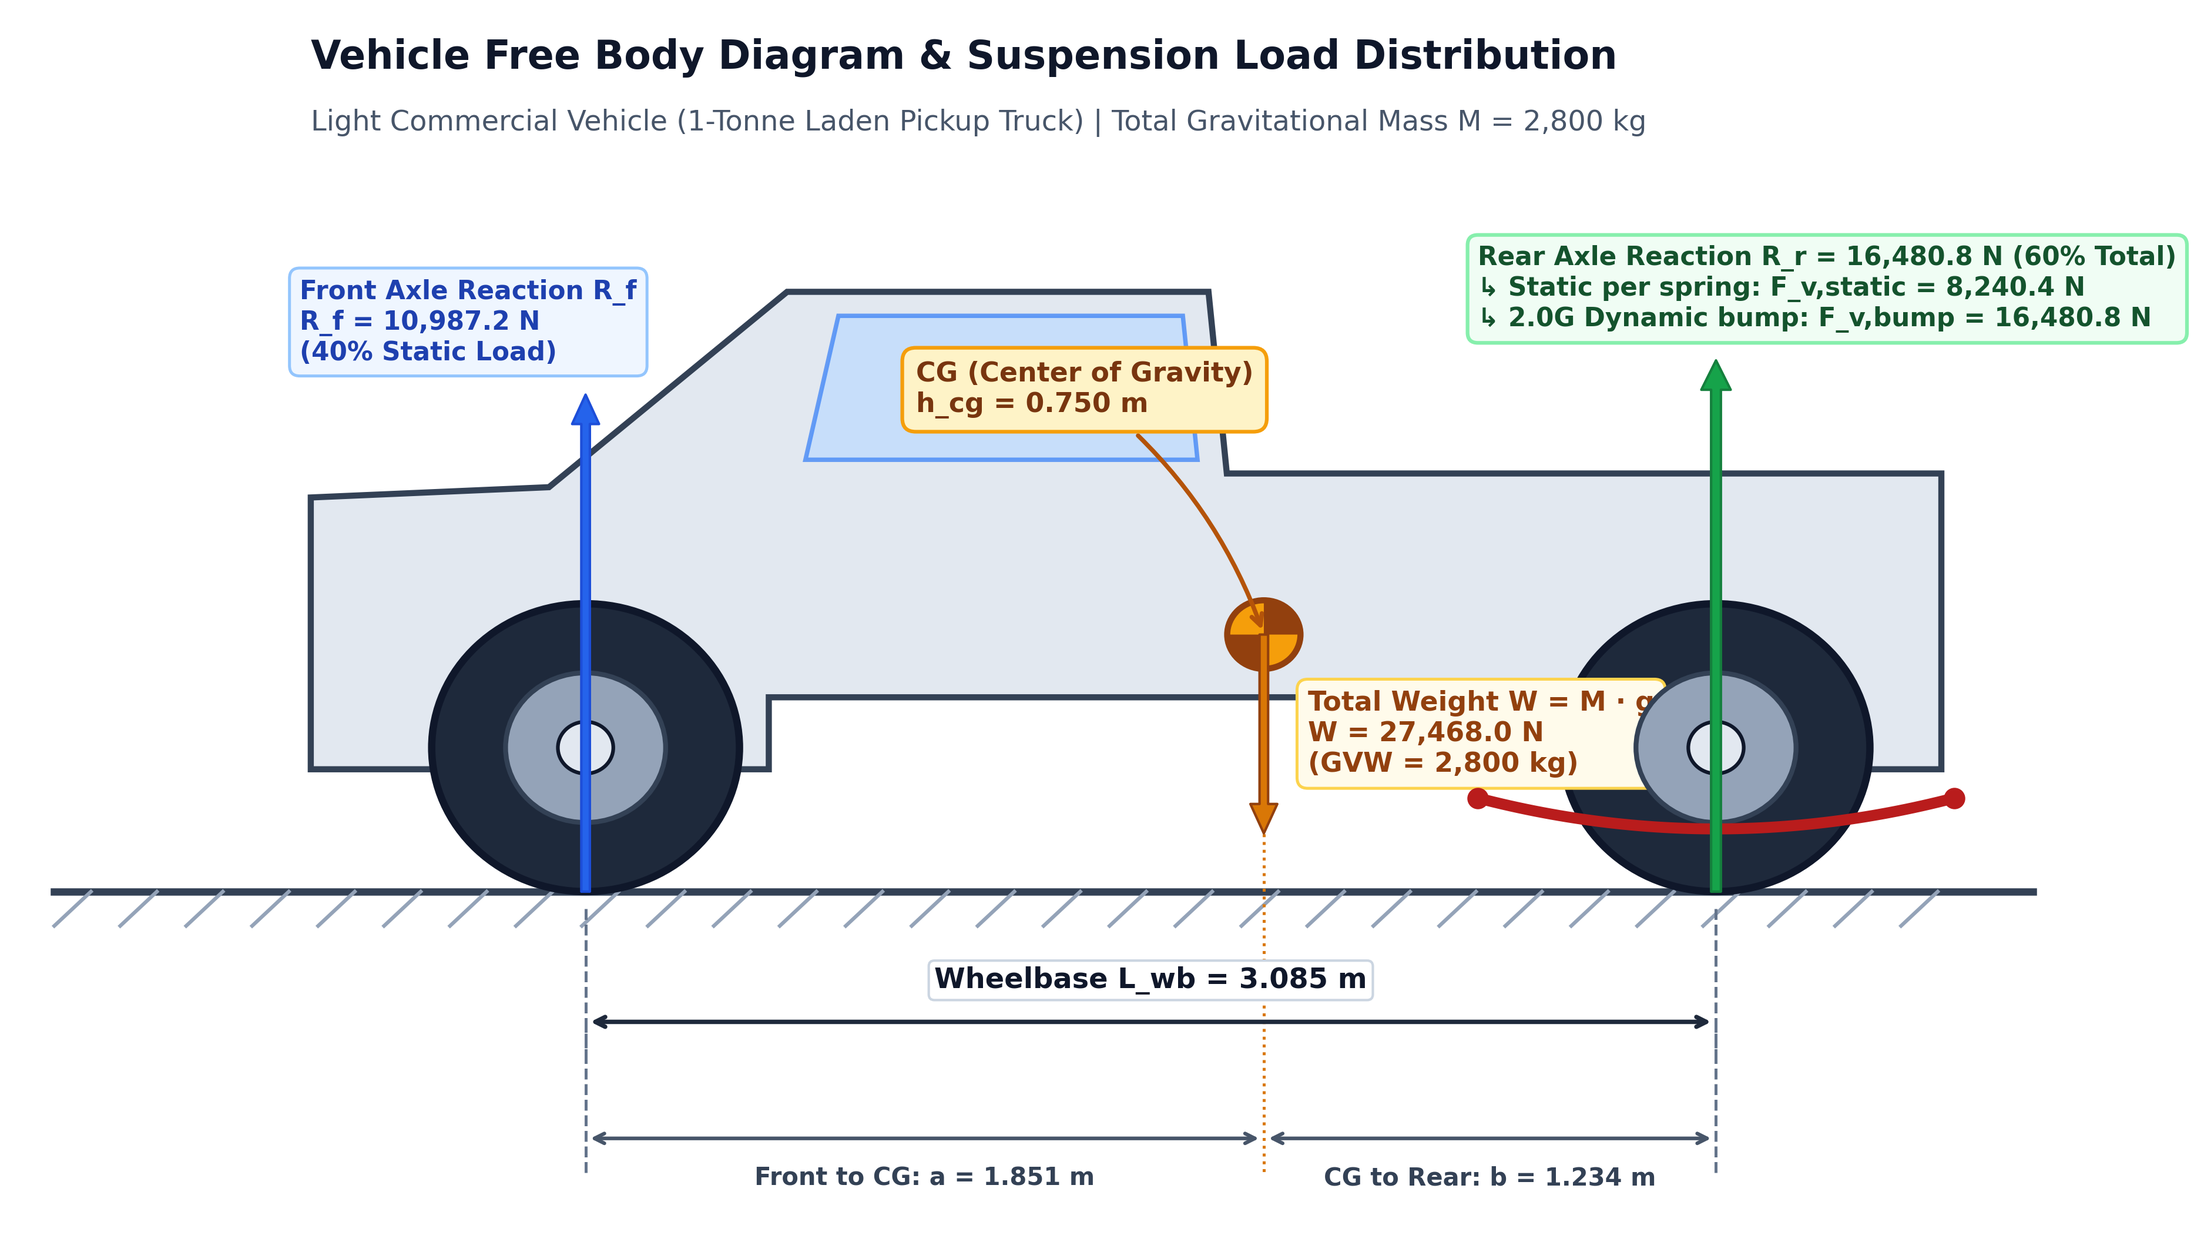
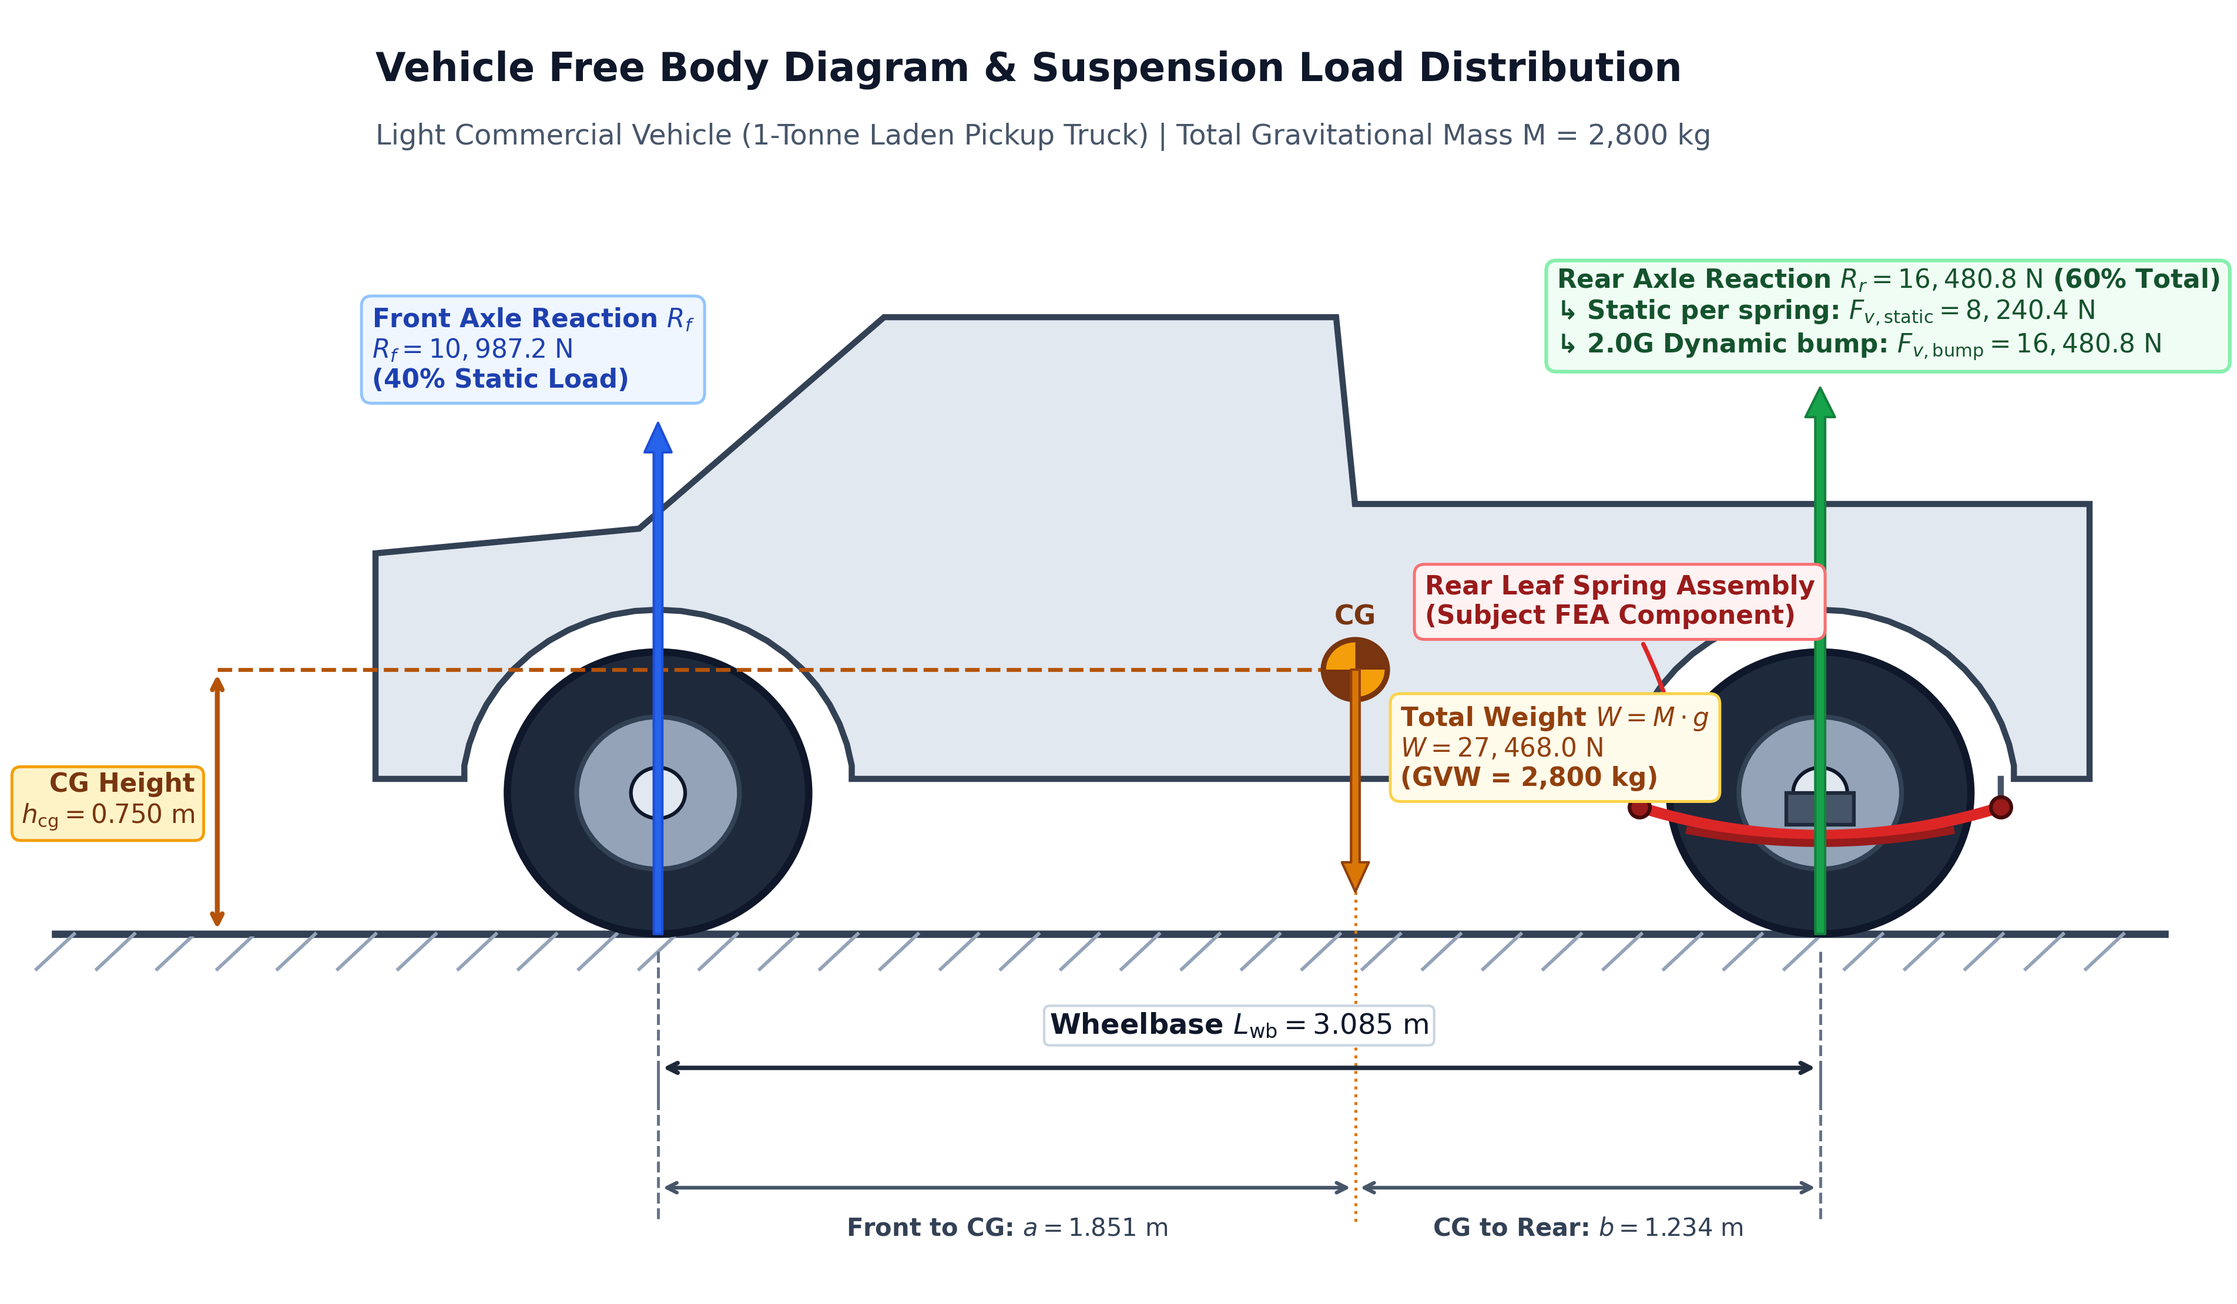
Update Figure 1 vehicle dynamics FBD: flat underbody, remove glass polygon, front-projected CG height scale, and realistic leaf spring mounting

diff --git a/scripts/plot_vehicle_dynamics.py b/scripts/plot_vehicle_dynamics.py
@@ -18,129 +18,215 @@ def generate_vehicle_fbd():
     os.makedirs(results_dir, exist_ok=True)
     out_path = os.path.join(results_dir, 'vehicle_dynamics_fbd.png')
 
-    fig, ax = plt.subplots(figsize=(13, 7.2), dpi=300)
+    fig, ax = plt.subplots(figsize=(13.5, 7.5), dpi=300)
     ax.set_facecolor('#f8fafc')
     fig.patch.set_facecolor('#ffffff')
 
-    # Ground line
-    ax.plot([-0.6, 4.8], [0, 0], color='#334155', lw=3, zorder=2)
-    for x in np.arange(-0.5, 4.7, 0.18):
-        ax.plot([x, x - 0.10], [0, -0.10], color='#94a3b8', lw=1.5)
-
-    # Dimensions
+    # Dimensions & Key Coordinates
     x_front = 0.85
-    x_rear = 3.935  # wheelbase = 3.085 m
-    r_wheel = 0.42
+    x_rear = 3.935          # Wheelbase L_wb = 3.085 m
+    r_wheel = 0.40          # Wheel rolling radius (m)
+    y_belly = 0.44          # Flat vehicle underbody / rocker sill line (m)
+    x_cg = x_front + 1.851  # CG longitudinal position: 2.701 m (a = 1.851 m, b = 1.234 m)
+    y_cg = 0.750            # CG height above ground h_cg = 0.750 m
 
-    # Draw Wheels
-    wheel_f = plt.Circle((x_front, r_wheel), r_wheel, facecolor='#1e293b', edgecolor='#0f172a', lw=3, zorder=3)
-    rim_f = plt.Circle((x_front, r_wheel), r_wheel * 0.52, facecolor='#94a3b8', edgecolor='#334155', lw=2, zorder=4)
-    hub_f = plt.Circle((x_front, r_wheel), r_wheel * 0.18, facecolor='#e2e8f0', edgecolor='#0f172a', lw=1.5, zorder=5)
+    # Ground line & Hatching
+    ax.plot([-0.75, 4.85], [0, 0], color='#334155', lw=3, zorder=2)
+    for x in np.arange(-0.70, 4.80, 0.16):
+        ax.plot([x, x - 0.10], [0, -0.10], color='#94a3b8', lw=1.4)
 
-    wheel_r = plt.Circle((x_rear, r_wheel), r_wheel, facecolor='#1e293b', edgecolor='#0f172a', lw=3, zorder=3)
-    rim_r = plt.Circle((x_rear, r_wheel), r_wheel * 0.52, facecolor='#94a3b8', edgecolor='#334155', lw=2, zorder=4)
-    hub_r = plt.Circle((x_rear, r_wheel), r_wheel * 0.18, facecolor='#e2e8f0', edgecolor='#0f172a', lw=1.5, zorder=5)
+    # -------------------------------------------------------------------------
+    # 1. Wheels (Front & Rear)
+    # -------------------------------------------------------------------------
+    for xw in [x_front, x_rear]:
+        # Tire
+        wheel = plt.Circle((xw, r_wheel), r_wheel, facecolor='#1e293b', edgecolor='#0f172a', lw=3, zorder=3)
+        # Rim
+        rim = plt.Circle((xw, r_wheel), r_wheel * 0.54, facecolor='#94a3b8', edgecolor='#334155', lw=2, zorder=4)
+        # Wheel Hub
+        hub = plt.Circle((xw, r_wheel), r_wheel * 0.18, facecolor='#e2e8f0', edgecolor='#0f172a', lw=1.5, zorder=5)
+        ax.add_patch(wheel)
+        ax.add_patch(rim)
+        ax.add_patch(hub)
 
-    ax.add_patch(wheel_f)
-    ax.add_patch(rim_f)
-    ax.add_patch(hub_f)
-    ax.add_patch(wheel_r)
-    ax.add_patch(rim_r)
-    ax.add_patch(hub_r)
+    # -------------------------------------------------------------------------
+    # 2. Vehicle Body Outline (Pickup Truck Silhouette)
+    # Underbody is completely flat/level (ท้องรถเสมอราบไป)
+    # No window rectangle (ไม่มีสี่เหลี่ยมกระจก)
+    # Wheel arches provide realistic clearance over tires
+    # -------------------------------------------------------------------------
+    r_arch = 0.52
+    theta_front = np.linspace(np.pi - 0.15, 0.15, 25)
+    f_arch_x = (x_front + r_arch * np.cos(theta_front)).tolist()
+    f_arch_y = (r_wheel + r_arch * np.sin(theta_front)).tolist()
 
-    # Vehicle chassis/body outline
-    body_pts = [
-        [0.10, r_wheel * 0.85],
-        [0.10, 1.15],
-        [0.75, 1.18],
-        [1.40, 1.75],
-        [2.55, 1.75],
-        [2.60, 1.22],
-        [4.55, 1.22],
-        [4.55, r_wheel * 0.85],
-        [3.45, r_wheel * 0.85],
-        [3.45, r_wheel * 1.35],
-        [1.35, r_wheel * 1.35],
-        [1.35, r_wheel * 0.85],
-        [0.10, r_wheel * 0.85]
-    ]
+    theta_rear = np.linspace(np.pi - 0.15, 0.15, 25)
+    r_arch_x = (x_rear + r_arch * np.cos(theta_rear)).tolist()
+    r_arch_y = (r_wheel + r_arch * np.sin(theta_rear)).tolist()
+
+    body_pts = []
+    # Front bumper & lower grille
+    body_pts.append([0.10, y_belly])
+    body_pts.append([0.10, 1.08])
+    # Hood slope
+    body_pts.append([0.80, 1.15])
+    # Windshield A-pillar
+    body_pts.append([1.45, 1.75])
+    # Cab roof
+    body_pts.append([2.65, 1.75])
+    # Cab rear window drop to truck bed
+    body_pts.append([2.70, 1.22])
+    # Truck cargo bed upper rail
+    body_pts.append([4.65, 1.22])
+    # Tailgate / rear bumper drop
+    body_pts.append([4.65, y_belly])
+    # Rear overhang flat sill to rear wheel arch
+    body_pts.append([r_arch_x[-1], y_belly])
+    # Rear wheel arch cutout (reversed so it traces counter-clockwise / cleanly)
+    for px, py in zip(reversed(r_arch_x), reversed(r_arch_y)):
+        body_pts.append([px, py])
+    body_pts.append([r_arch_x[0], y_belly])
+    # Belly / Rocker sill line between front & rear wheels (Completely Flat & Level)
+    body_pts.append([f_arch_x[-1], y_belly])
+    # Front wheel arch cutout
+    for px, py in zip(reversed(f_arch_x), reversed(f_arch_y)):
+        body_pts.append([px, py])
+    body_pts.append([f_arch_x[0], y_belly])
+    # Front overhang flat sill to front bumper
+    body_pts.append([0.10, y_belly])
+
     body_poly = patches.Polygon(body_pts, closed=True, facecolor='#e2e8f0', edgecolor='#334155', lw=2.5, zorder=2)
     ax.add_patch(body_poly)
 
-    # Cabin glass
-    cabin_pts = [[1.45, 1.26], [1.54, 1.68], [2.48, 1.68], [2.52, 1.26]]
-    cabin_poly = patches.Polygon(cabin_pts, closed=True, facecolor='#bfdbfe', edgecolor='#3b82f6', alpha=0.75, lw=1.8, zorder=3)
-    ax.add_patch(cabin_poly)
+    # -------------------------------------------------------------------------
+    # 3. Leaf Spring Assembly (Suspension at Rear Axle, Outside the Body Frame)
+    # Mounted underneath the chassis frame / under the bed sill
+    # -------------------------------------------------------------------------
+    ls_span = 0.48
+    ls_x = np.linspace(x_rear - ls_span, x_rear + ls_span, 60)
+    # Master leaf arch (underslung/semi-elliptic camber)
+    ls_camber = 0.08
+    ls_y_master = (r_wheel - 0.04) + ls_camber * (((ls_x - x_rear) / ls_span)**2 - 1.0)
+    ax.plot(ls_x, ls_y_master, color='#dc2626', lw=4.5, zorder=6, label='Leaf Spring Assembly')
 
-    # Leaf Spring indication at rear axle
-    ls_x = np.linspace(x_rear - 0.65, x_rear + 0.65, 60)
-    ls_y = r_wheel * 0.65 - 0.09 * (1 - ((ls_x - x_rear) / 0.65)**2)
-    ax.plot(ls_x, ls_y, color='#b91c1c', lw=4.5, zorder=6, label='Leaf Spring Pack')
-    ax.scatter([x_rear - 0.65, x_rear + 0.65], [r_wheel * 0.65, r_wheel * 0.65], color='#b91c1c', s=60, zorder=7)
+    # Secondary graduated leaf
+    ls_x_sub = np.linspace(x_rear - ls_span * 0.72, x_rear + ls_span * 0.72, 40)
+    ls_y_sub = ls_y_master[10:50] - 0.022
+    ax.plot(ls_x_sub, ls_y_sub, color='#991b1b', lw=3.2, zorder=6)
 
-    # Center of Gravity (CG)
-    x_cg = x_front + 1.851
-    y_cg = 0.750
-    cg_circle = plt.Circle((x_cg, y_cg), 0.10, facecolor='#f59e0b', edgecolor='#92400e', lw=2.5, zorder=7)
+    # Spring Eyes (Front Fixed Eye & Rear Shackle Eye)
+    y_front_eye = ls_y_master[0]
+    y_rear_eye = ls_y_master[-1]
+    ax.scatter([x_rear - ls_span], [y_front_eye], color='#991b1b', edgecolor='#450a0a', s=70, lw=1.5, zorder=7)
+    ax.scatter([x_rear + ls_span], [y_rear_eye], color='#991b1b', edgecolor='#450a0a', s=70, lw=1.5, zorder=7)
+
+    # Chassis Hanger Brackets & Rear Shackle Link
+    # Front hanger bracket from chassis sill to front eye
+    ax.plot([x_rear - ls_span, x_rear - ls_span], [y_belly, y_front_eye], color='#475569', lw=2.5, zorder=5)
+    # Rear shackle link
+    ax.plot([x_rear + ls_span, x_rear + ls_span], [y_belly, y_rear_eye], color='#475569', lw=2.5, zorder=5)
+
+    # Axle Clamp / U-Bolt Saddle Block
+    axle_clamp = patches.Rectangle((x_rear - 0.09, r_wheel - 0.09), 0.18, 0.09,
+                                   facecolor='#475569', edgecolor='#1e293b', lw=1.5, zorder=7)
+    ax.add_patch(axle_clamp)
+
+    # Leaf Spring Annotation
+    ax.annotate('Rear Leaf Spring Assembly\n(Subject FEA Component)',
+                xy=(x_rear - 0.35, y_front_eye), xytext=(x_rear - 1.05, 0.88),
+                fontsize=10.5, fontweight='bold', color='#991b1b',
+                arrowprops=dict(arrowstyle='->', color='#dc2626', lw=1.8, connectionstyle='arc3,rad=-0.12'),
+                bbox=dict(boxstyle='round,pad=0.4', facecolor='#fef2f2', edgecolor='#f87171', lw=1.2), zorder=9)
+
+    # -------------------------------------------------------------------------
+    # 4. Center of Gravity (CG)
+    # No cluttered description box on CG
+    # Height scale projected with dashed line to vehicle front with vertical arrow
+    # -------------------------------------------------------------------------
+    # Clean CG Quadrant Symbol
+    r_cg = 0.085
+    cg_circle = plt.Circle((x_cg, y_cg), r_cg, facecolor='#f59e0b', edgecolor='#78350f', lw=2.2, zorder=7)
     ax.add_patch(cg_circle)
-    wedge1 = patches.Wedge((x_cg, y_cg), 0.10, 0, 90, facecolor='#92400e', zorder=8)
-    wedge2 = patches.Wedge((x_cg, y_cg), 0.10, 180, 270, facecolor='#92400e', zorder=8)
-    ax.add_patch(wedge1)
-    ax.add_patch(wedge2)
+    w1 = patches.Wedge((x_cg, y_cg), r_cg, 0, 90, facecolor='#78350f', zorder=8)
+    w2 = patches.Wedge((x_cg, y_cg), r_cg, 180, 270, facecolor='#78350f', zorder=8)
+    ax.add_patch(w1)
+    ax.add_patch(w2)
+    ax.text(x_cg, y_cg + 0.11, 'CG', ha='center', va='bottom', fontsize=11, fontweight='bold', color='#78350f', zorder=9)
 
-    # CG Label Box
-    ax.annotate('CG (Center of Gravity)\nh_cg = 0.750 m', xy=(x_cg, y_cg), xytext=(x_cg - 0.95, y_cg + 0.65),
-                fontsize=11, fontweight='bold', color='#78350f',
-                arrowprops=dict(arrowstyle='->', color='#b45309', lw=1.8, connectionstyle='arc3,rad=-0.15'),
-                bbox=dict(boxstyle='round,pad=0.5', facecolor='#fef3c7', edgecolor='#f59e0b', lw=1.5), zorder=9)
+    # Horizontal Dashed Projection Line to Front of Vehicle
+    x_proj_front = -0.32
+    ax.plot([x_proj_front, x_cg], [y_cg, y_cg], color='#b45309', lw=1.6, ls='--', zorder=6)
+    # Ground reference dashed line out front
+    ax.plot([x_proj_front - 0.15, x_proj_front + 0.12], [0, 0], color='#334155', lw=2, zorder=6)
 
-    # Force Vectors
-    # Weight vector at CG
-    ax.annotate('', xy=(x_cg, y_cg - 0.58), xytext=(x_cg, y_cg),
+    # Vertical Height Dimension Arrow at Front
+    ax.annotate('', xy=(x_proj_front, y_cg), xytext=(x_proj_front, 0),
+                arrowprops=dict(arrowstyle='<->', color='#b45309', lw=2.0), zorder=8)
+    ax.text(x_proj_front - 0.06, y_cg / 2, 'CG Height\n$h_{\\mathrm{cg}} = 0.750\\text{ m}$',
+            ha='right', va='center', fontsize=10.5, fontweight='bold', color='#78350f',
+            bbox=dict(boxstyle='round,pad=0.35', facecolor='#fef3c7', edgecolor='#f59e0b', lw=1.2), zorder=9)
+
+    # -------------------------------------------------------------------------
+    # 5. Vehicle Forces & Reaction Vectors
+    # -------------------------------------------------------------------------
+    # Total Weight Vector W at CG
+    ax.annotate('', xy=(x_cg, 0.12), xytext=(x_cg, y_cg),
                 arrowprops=dict(facecolor='#d97706', edgecolor='#92400e', width=3.5, headwidth=11), zorder=8)
-    ax.text(x_cg + 0.12, y_cg - 0.40, 'Total Weight W = M · g\nW = 27,468.0 N\n(GVW = 2,800 kg)', 
-            fontsize=11, fontweight='bold', color='#92400e',
-            bbox=dict(boxstyle='round,pad=0.4', facecolor='#fffbeb', edgecolor='#fcd34d', lw=1.2))
+    ax.text(x_cg + 0.12, 0.42, 'Total Weight $W = M \\cdot g$\n$W = 27,468.0\\text{ N}$\n(GVW = 2,800 kg)',
+            fontsize=10.5, fontweight='bold', color='#92400e',
+            bbox=dict(boxstyle='round,pad=0.4', facecolor='#fffbeb', edgecolor='#fcd34d', lw=1.2), zorder=9)
 
-    # Front axle reaction
+    # Front Axle Reaction R_f
     ax.annotate('', xy=(x_front, 1.45), xytext=(x_front, 0),
                 arrowprops=dict(facecolor='#2563eb', edgecolor='#1d4ed8', width=3.5, headwidth=11), zorder=8)
-    ax.text(x_front - 0.78, 1.55, 'Front Axle Reaction R_f\nR_f = 10,987.2 N\n(40% Static Load)', 
+    ax.text(x_front - 0.76, 1.55, 'Front Axle Reaction $R_f$\n$R_f = 10,987.2\\text{ N}$\n(40% Static Load)',
             fontsize=10.5, fontweight='bold', color='#1e40af',
-            bbox=dict(boxstyle='round,pad=0.4', facecolor='#eff6ff', edgecolor='#93c5fd', lw=1.2))
+            bbox=dict(boxstyle='round,pad=0.4', facecolor='#eff6ff', edgecolor='#93c5fd', lw=1.2), zorder=9)
 
-    # Rear axle reaction
+    # Rear Axle Reaction R_r
     ax.annotate('', xy=(x_rear, 1.55), xytext=(x_rear, 0),
                 arrowprops=dict(facecolor='#16a34a', edgecolor='#15803d', width=4, headwidth=12), zorder=8)
-    ax.text(x_rear - 0.65, 1.65, 'Rear Axle Reaction R_r = 16,480.8 N (60% Total)\n↳ Static per spring: F_v,static = 8,240.4 N\n↳ 2.0G Dynamic bump: F_v,bump = 16,480.8 N', 
+    ax.text(x_rear - 0.70, 1.65,
+            'Rear Axle Reaction $R_r = 16,480.8\\text{ N}$ (60% Total)\n'
+            '↳ Static per spring: $F_{v,\\mathrm{static}} = 8,240.4\\text{ N}$\n'
+            '↳ 2.0G Dynamic bump: $F_{v,\\mathrm{bump}} = 16,480.8\\text{ N}$',
             fontsize=10.5, fontweight='bold', color='#14532d',
-            bbox=dict(boxstyle='round,pad=0.4', facecolor='#f0fdf4', edgecolor='#86efac', lw=1.5))
+            bbox=dict(boxstyle='round,pad=0.4', facecolor='#f0fdf4', edgecolor='#86efac', lw=1.5), zorder=9)
 
-    # Dimension Lines
+    # -------------------------------------------------------------------------
+    # 6. Horizontal Dimension Lines (Wheelbase L_wb, a, b)
+    # -------------------------------------------------------------------------
     y_dim1 = -0.38
     ax.annotate('', xy=(x_rear, y_dim1), xytext=(x_front, y_dim1),
                 arrowprops=dict(arrowstyle='<->', color='#1e293b', lw=1.8))
     ax.plot([x_front, x_front], [-0.05, y_dim1 - 0.10], color='#64748b', lw=1.2, ls='--')
     ax.plot([x_rear, x_rear], [-0.05, y_dim1 - 0.10], color='#64748b', lw=1.2, ls='--')
-    ax.text((x_front + x_rear) / 2, y_dim1 + 0.08, 'Wheelbase L_wb = 3.085 m', ha='center', va='bottom', fontsize=11.5, fontweight='bold', color='#0f172a',
+    ax.text((x_front + x_rear) / 2, y_dim1 + 0.08, 'Wheelbase $L_{\\mathrm{wb}} = 3.085\\text{ m}$',
+            ha='center', va='bottom', fontsize=11.5, fontweight='bold', color='#0f172a',
             bbox=dict(boxstyle='round,pad=0.2', facecolor='#ffffff', edgecolor='#cbd5e1', lw=1))
 
     # Sub-dimensions a and b
     y_dim2 = -0.72
     ax.annotate('', xy=(x_cg, y_dim2), xytext=(x_front, y_dim2), arrowprops=dict(arrowstyle='<->', color='#475569', lw=1.5))
     ax.annotate('', xy=(x_rear, y_dim2), xytext=(x_cg, y_dim2), arrowprops=dict(arrowstyle='<->', color='#475569', lw=1.5))
-    ax.plot([x_cg, x_cg], [y_cg - 0.15, y_dim2 - 0.10], color='#d97706', lw=1.2, ls=':')
+    ax.plot([x_cg, x_cg], [0.12, y_dim2 - 0.10], color='#d97706', lw=1.2, ls=':')
     ax.plot([x_front, x_front], [y_dim1, y_dim2 - 0.10], color='#64748b', lw=1.2, ls='--')
     ax.plot([x_rear, x_rear], [y_dim1, y_dim2 - 0.10], color='#64748b', lw=1.2, ls='--')
-    ax.text((x_front + x_cg) / 2, y_dim2 - 0.08, 'Front to CG: a = 1.851 m', ha='center', va='top', fontsize=10, fontweight='bold', color='#334155')
-    ax.text((x_cg + x_rear) / 2, y_dim2 - 0.08, 'CG to Rear: b = 1.234 m', ha='center', va='top', fontsize=10, fontweight='bold', color='#334155')
+    ax.text((x_front + x_cg) / 2, y_dim2 - 0.08, 'Front to CG: $a = 1.851\\text{ m}$',
+            ha='center', va='top', fontsize=10, fontweight='bold', color='#334155')
+    ax.text((x_cg + x_rear) / 2, y_dim2 - 0.08, 'CG to Rear: $b = 1.234\\text{ m}$',
+            ha='center', va='top', fontsize=10, fontweight='bold', color='#334155')
 
-    # Header
-    ax.text(0.10, 2.40, 'Vehicle Free Body Diagram & Suspension Load Distribution', fontsize=16, fontweight='bold', color='#0f172a')
-    ax.text(0.10, 2.22, 'Light Commercial Vehicle (1-Tonne Laden Pickup Truck) | Total Gravitational Mass M = 2,800 kg', fontsize=11.5, color='#475569')
+    # -------------------------------------------------------------------------
+    # 7. Figure Header & Title
+    # -------------------------------------------------------------------------
+    ax.text(0.10, 2.42, 'Vehicle Free Body Diagram & Suspension Load Distribution',
+            fontsize=16, fontweight='bold', color='#0f172a')
+    ax.text(0.10, 2.24, 'Light Commercial Vehicle (1-Tonne Laden Pickup Truck) | Total Gravitational Mass M = 2,800 kg',
+            fontsize=11.5, color='#475569')
 
-    ax.set_xlim(-0.7, 4.9)
-    ax.set_ylim(-1.0, 2.55)
+    ax.set_xlim(-0.85, 4.95)
+    ax.set_ylim(-1.0, 2.60)
     ax.axis('off')
     plt.tight_layout()
     plt.savefig(out_path, dpi=300, bbox_inches='tight')
